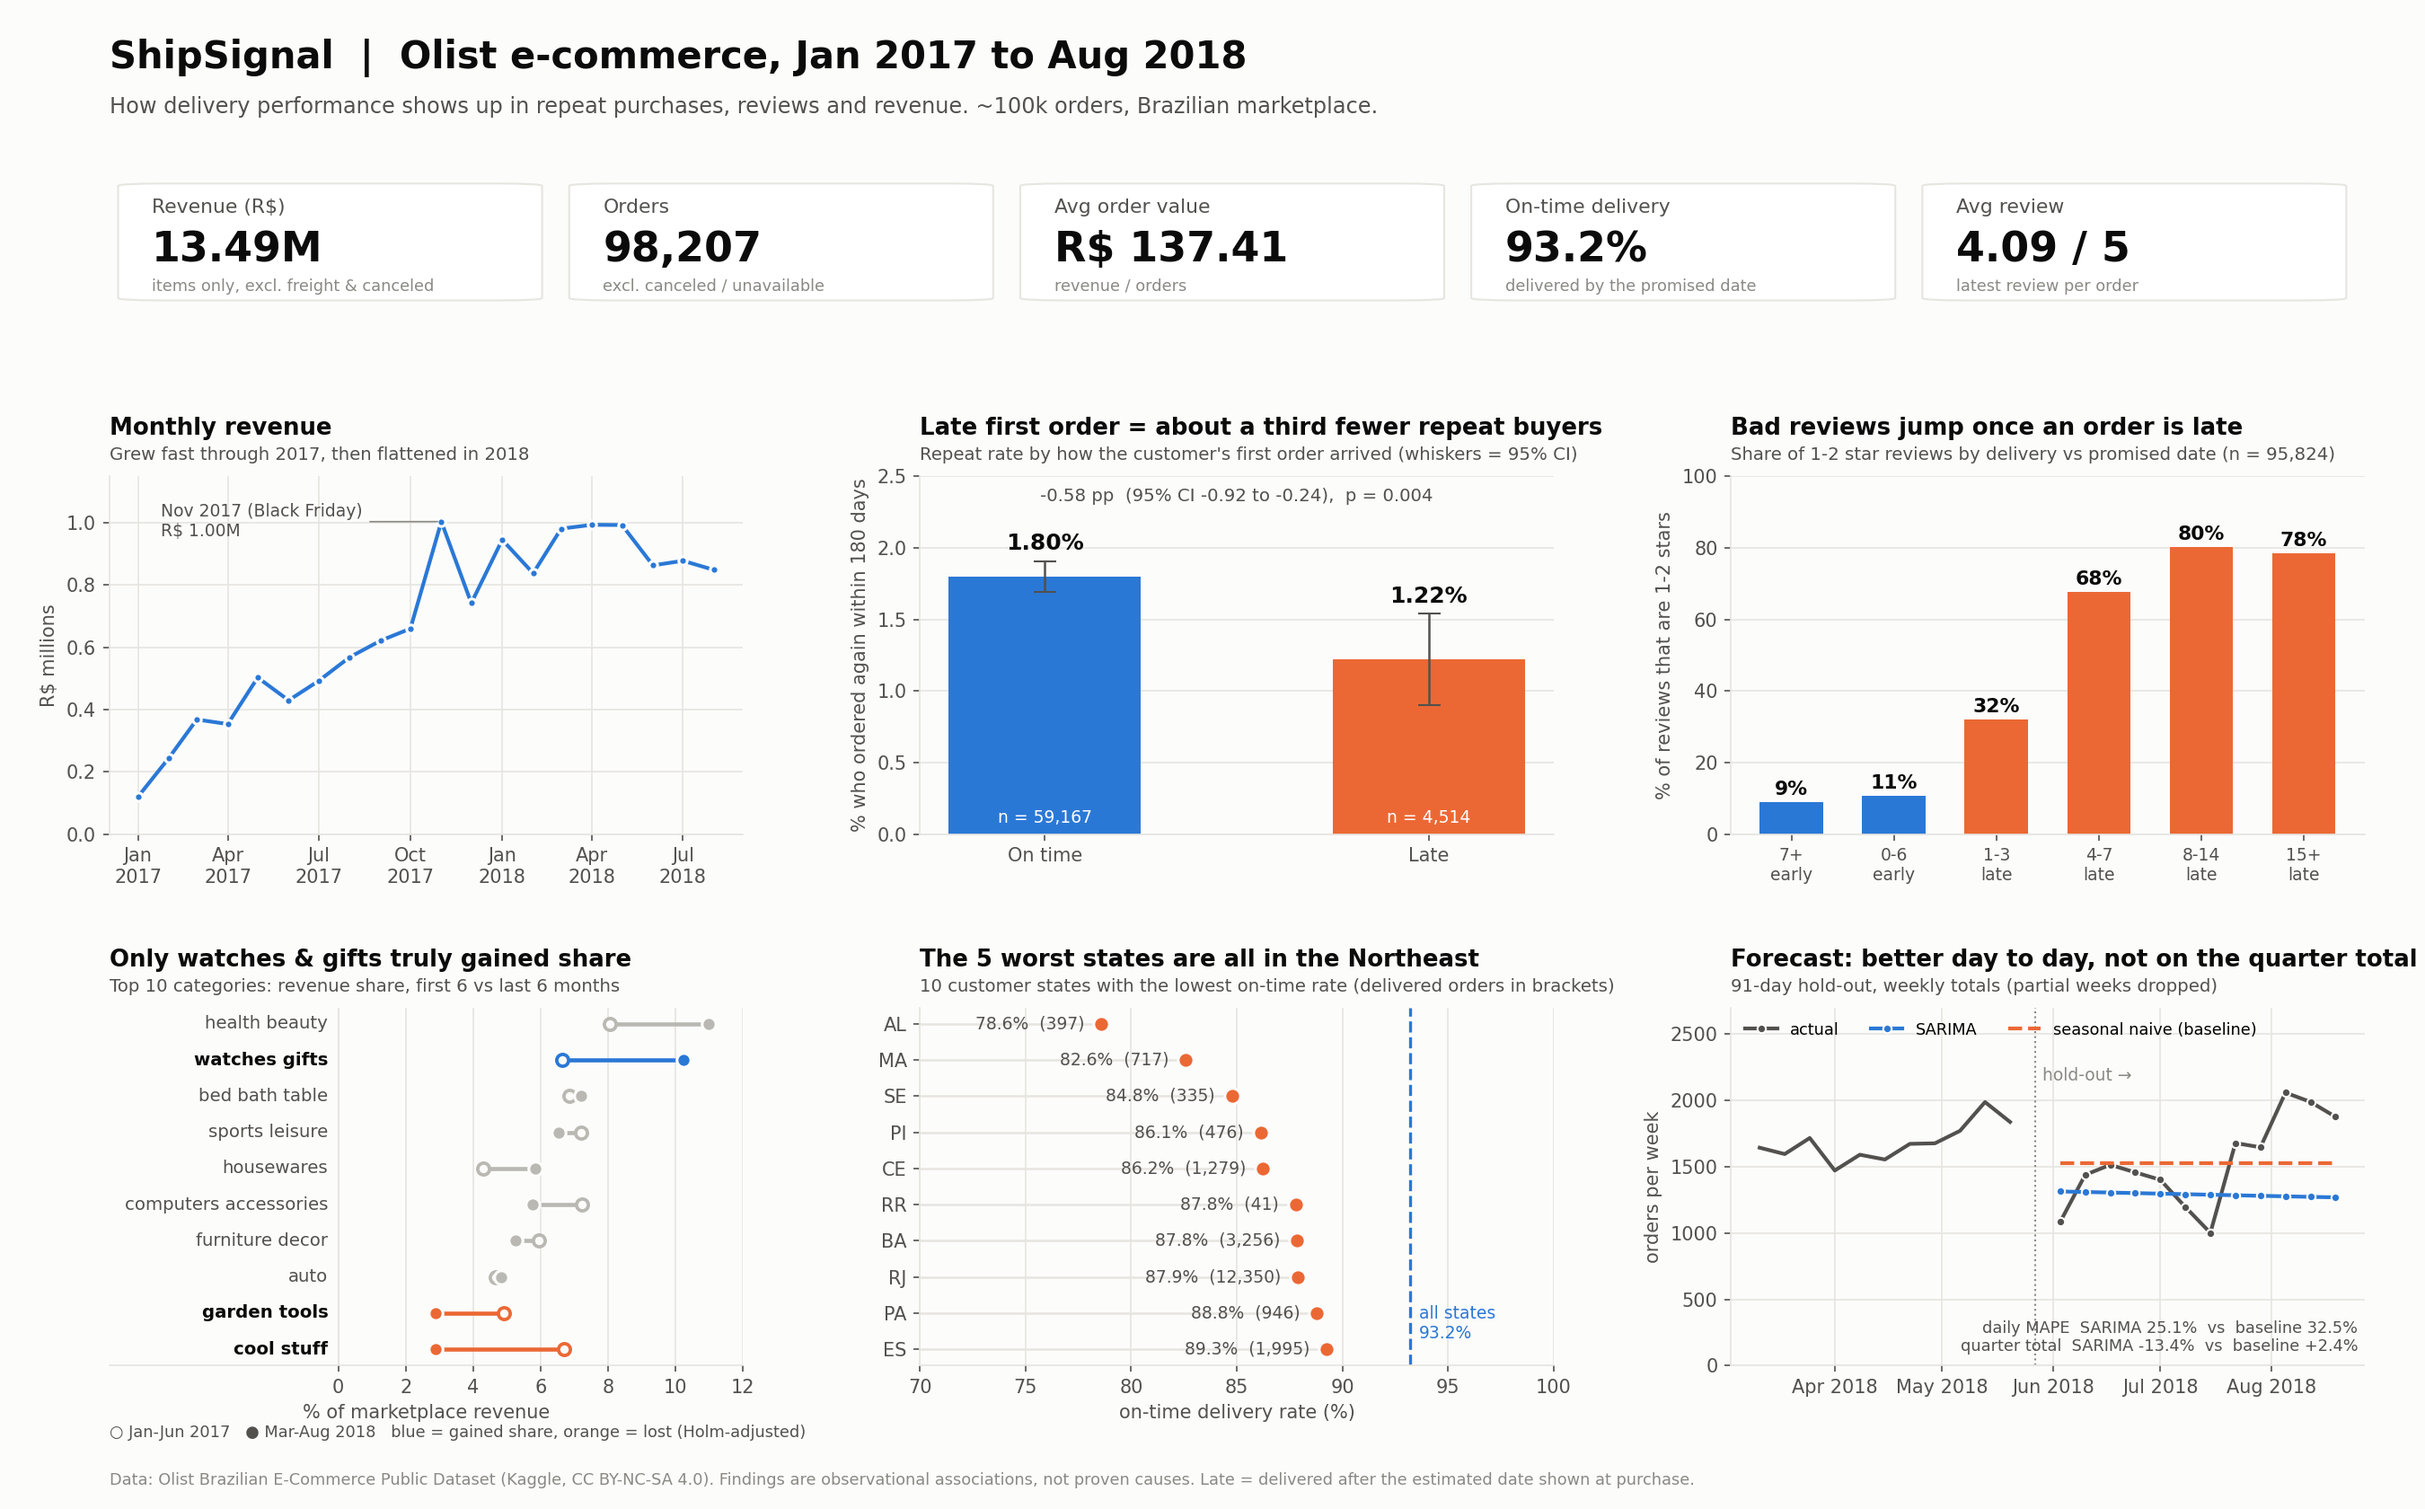
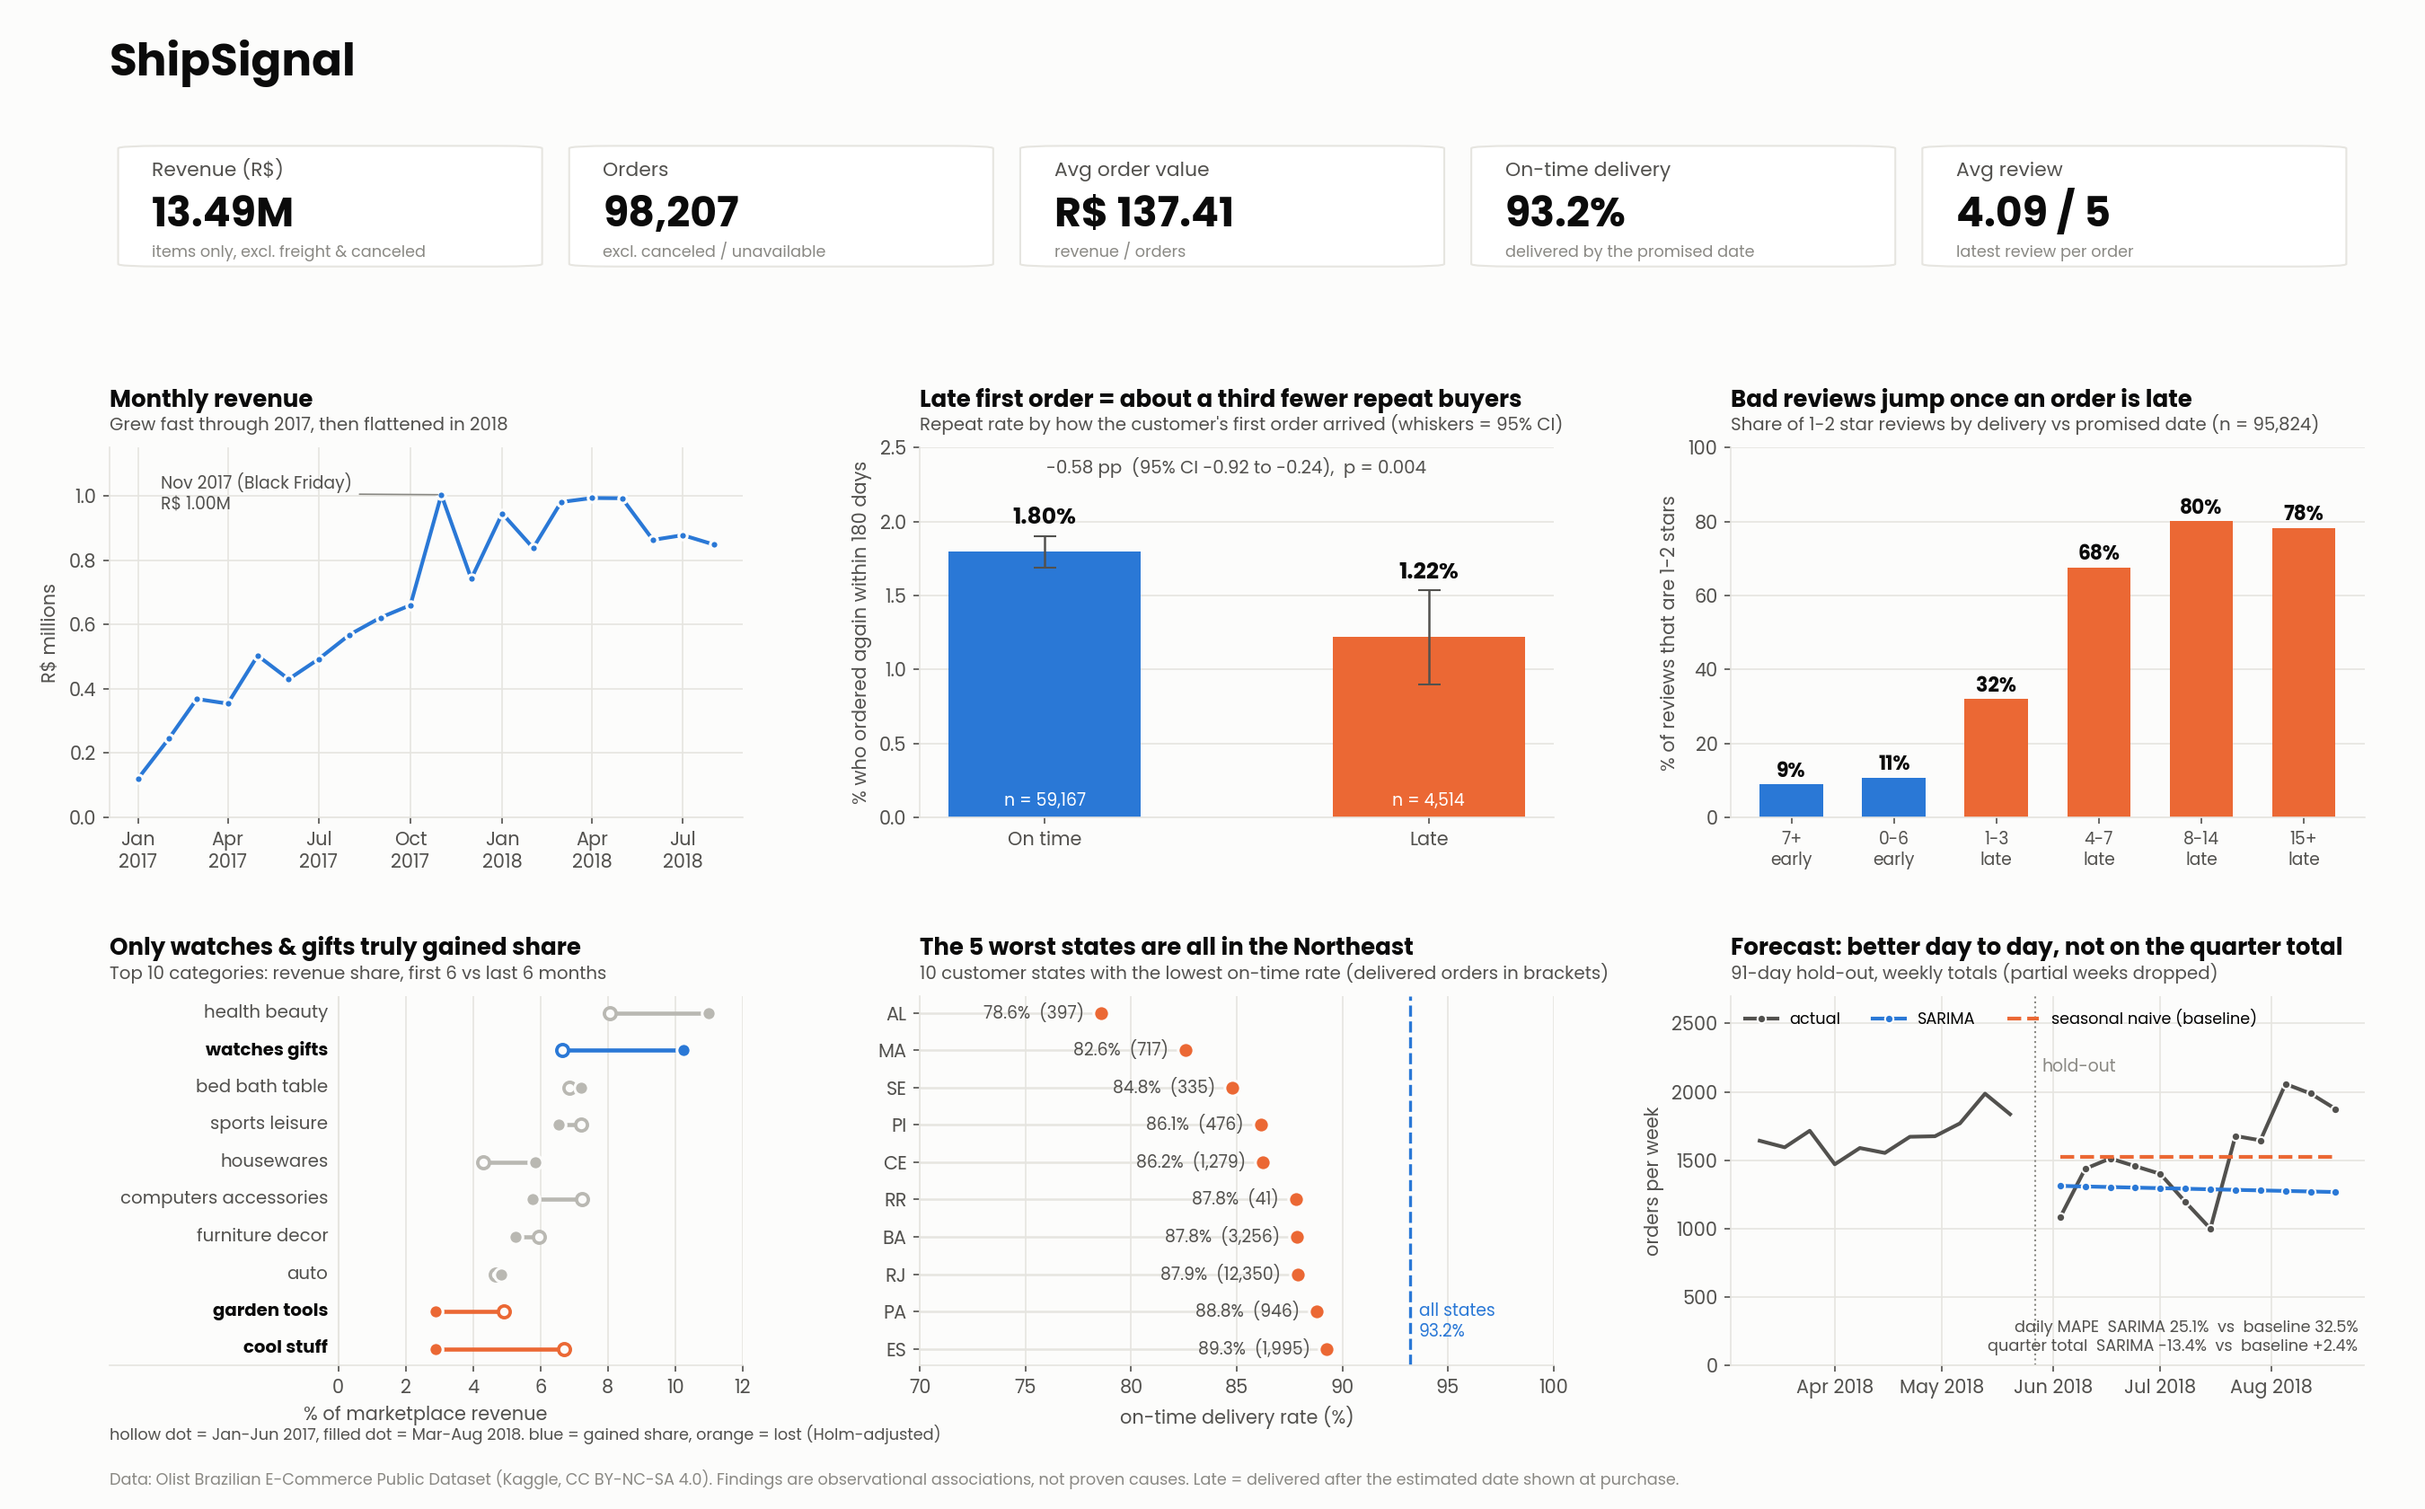
update dashboard image

diff --git a/analysis/make_dashboard.py b/analysis/make_dashboard.py
@@ -101,7 +101,7 @@ def load():
 def main():
     D = load()
     plt.rcParams.update({
-        "font.family": "DejaVu Sans", "font.size": 10,
+        "font.family": "Poppins", "font.size": 10,
         "axes.edgecolor": GRID, "axes.labelcolor": INK2,
         "xtick.color": INK2, "ytick.color": INK2,
         "axes.spines.top": False, "axes.spines.right": False,
@@ -111,11 +111,9 @@ def main():
 
     fig = plt.figure(figsize=(18, 11.2), dpi=150)
     gs = fig.add_gridspec(3, 3, height_ratios=[0.34, 1, 1], hspace=0.62, wspace=0.28,
-                          left=0.045, right=0.975, top=0.88, bottom=0.095)
-    fig.text(0.045, 0.955, "ShipSignal  |  Olist e-commerce, Jan 2017 to Aug 2018", fontsize=20,
+                          left=0.045, right=0.975, top=0.905, bottom=0.095)
+    fig.text(0.045, 0.95, "ShipSignal", fontsize=24,
              fontweight="bold", color=INK)
-    fig.text(0.045, 0.925, "How delivery performance shows up in repeat purchases, reviews and revenue. "
-             "~100k orders, Brazilian marketplace.", fontsize=11.5, color=INK2)
 
     def title(ax, t, sub=None):
         ax.set_title(t, loc="left", fontsize=12.5, fontweight="bold", color=INK, pad=22)
@@ -214,7 +212,7 @@ def main():
     ax.set_xlim(-6.8, 12)
     ax.set_xticks([0, 2, 4, 6, 8, 10, 12])
     ax.axvline(0, color=GRID, lw=1)
-    ax.text(0.0, -0.2, "○ Jan-Jun 2017   ● Mar-Aug 2018   blue = gained share, orange = lost (Holm-adjusted)",
+    ax.text(0.0, -0.2, "hollow dot = Jan-Jun 2017, filled dot = Mar-Aug 2018. blue = gained share, orange = lost (Holm-adjusted)",
             transform=ax.transAxes, fontsize=8.5, color=INK2)
     title(ax, "Only watches & gifts truly gained share",
           "Top 10 categories: revenue share, first 6 vs last 6 months")
@@ -254,7 +252,7 @@ def main():
     ax.plot(wk["d"], wk["sarima"], color=BLUE, lw=2, marker="o", ms=4.5, markeredgecolor=SURF, label="SARIMA")
     ax.plot(wk["d"], wk["naive"], color=ORANGE, lw=2, ls="--", label="seasonal naive (baseline)")
     ax.axvline(wk["d"].iloc[0] - pd.Timedelta(days=7), color=MUTED, lw=1, ls=":")
-    ax.text(wk["d"].iloc[0] - pd.Timedelta(days=5), 2150, "hold-out →", fontsize=9, color=MUTED)
+    ax.text(wk["d"].iloc[0] - pd.Timedelta(days=5), 2150, "hold-out", fontsize=9, color=MUTED)
     ax.set_ylabel("orders per week")
     ax.set_ylim(0, 2700)
     ax.xaxis.set_major_formatter(mdates.DateFormatter("%b %Y"))
